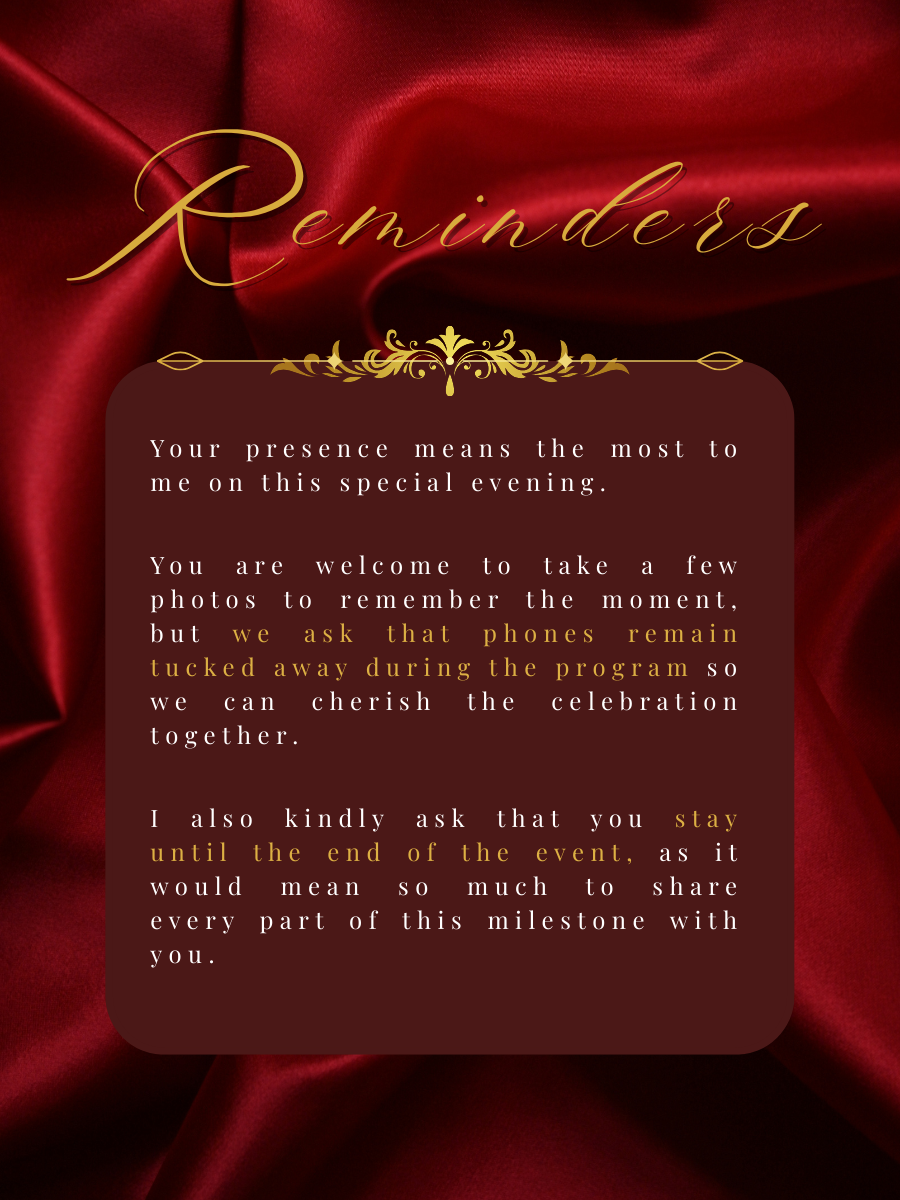
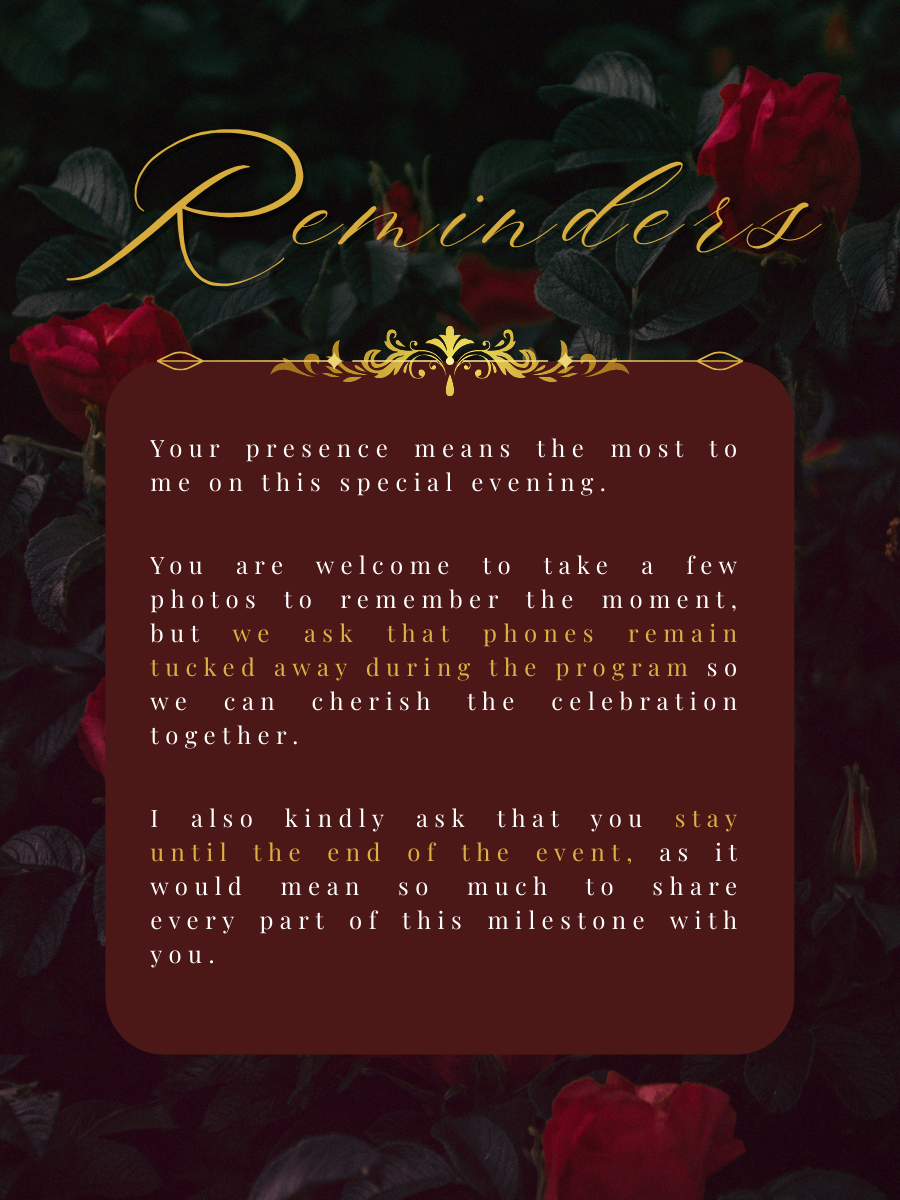
Update

diff --git a/style.css b/style.css
@@ -108,7 +108,7 @@ Font Colors
     flex-direction: column;
 
     color: white;
-    background: linear-gradient(180deg,rgba(69, 0, 17, 1) 20%, rgba(0, 0, 0, 1) 50%, rgba(69, 0, 17, 1) 70%);  
+    background: linear-gradient(180deg,rgba(69, 0, 17, 1) 5%, rgba(0, 0, 0, 1) 50%, rgba(69, 0, 17, 1) 95%); 
 }
 
 .venue-header{
